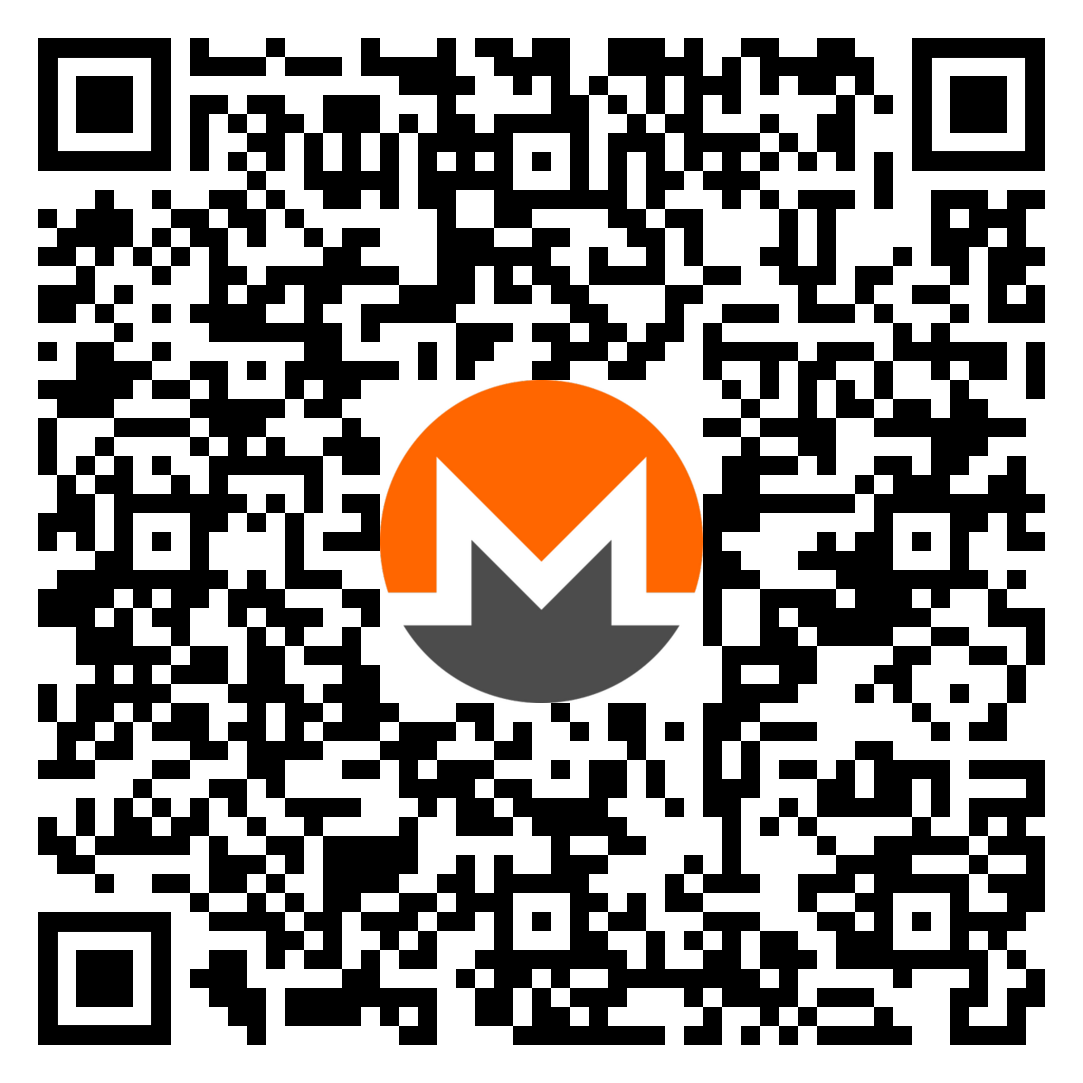
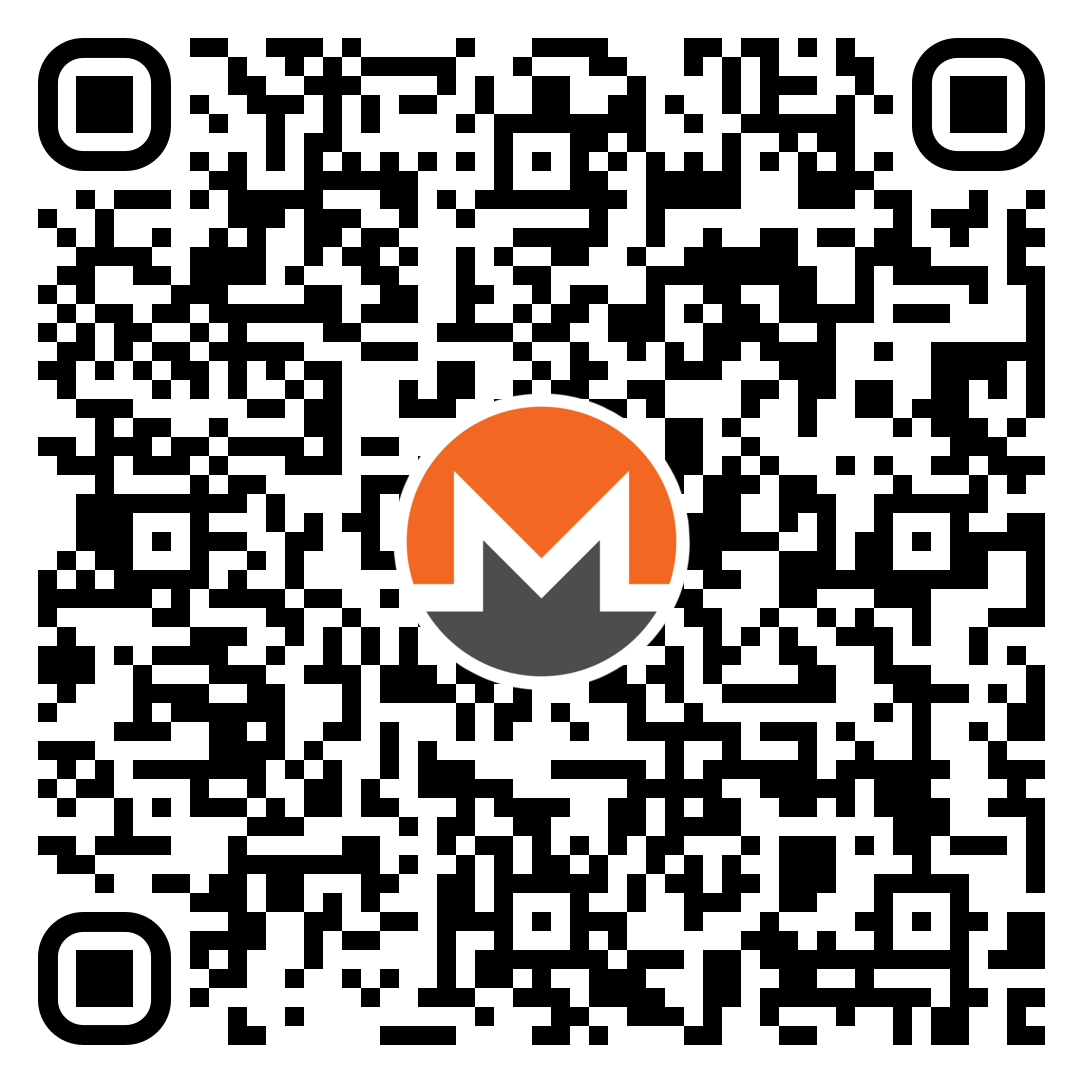
update donation qr and readme

diff --git a/README.md b/README.md
@@ -73,13 +73,11 @@ If you are not able to contribute code and want to contribute development resour
 
 To incentivize development and reward contributors, we adopt a simple bounty system. Contributors may be awarded bounties after completing a task (resolving an issue). Take a look at the [issues labeled '💰bounty'](https://github.com/haveno-dex/haveno/issues?q=is%3Aopen+is%3Aissue+label%3A%F0%9F%92%B0bounty) in the main `haveno` repository. [Details and conditions for receiving a bounty](docs/bounties.md).
 
-## Support and sponsorships
+## Support
 
-To bring Haveno to life, we need resources. If you have the possibility, please consider [becoming a sponsor](https://haveno.exchange/sponsors/) or donating to the project:
+To bring Haveno to life, we need resources. If you have the possibility, please consider donating to the project:
 
-<p>
+<p align="center">
   <img src="https://raw.githubusercontent.com/haveno-dex/haveno/master/media/donate_monero.png" alt="Donate Monero" width="115" height="115"><br>
   <code>47fo8N5m2VVW4uojadGQVJ34LFR9yXwDrZDRugjvVSjcTWV2WFSoc1XfNpHmxwmVtfNY9wMBch6259G6BXXFmhU49YG1zfB</code>
 </p>
-
-If you are using a wallet that supports OpenAlias (like the 'official' CLI and GUI wallets), you can simply put `fund@haveno.exchange` as the "receiver" address.
